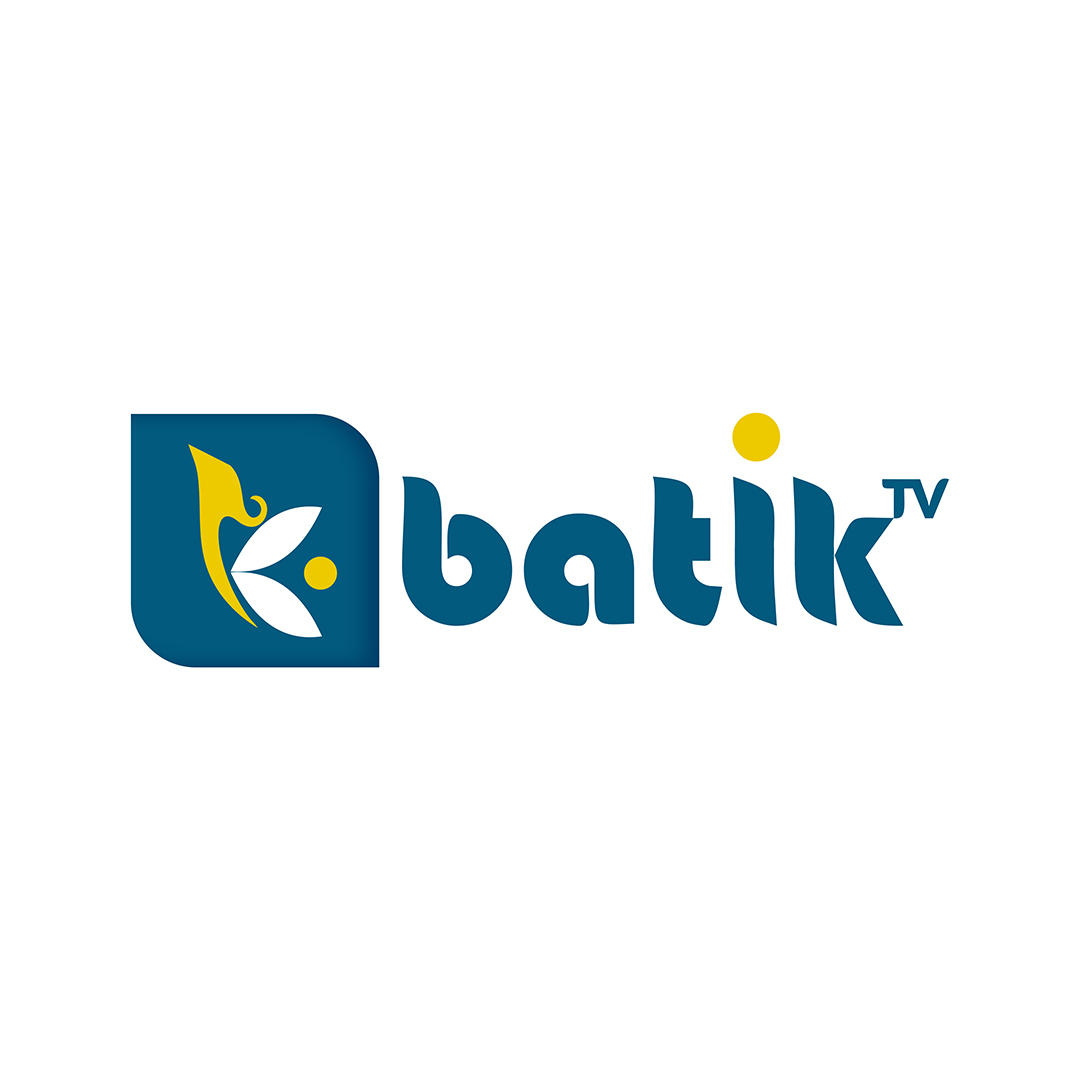
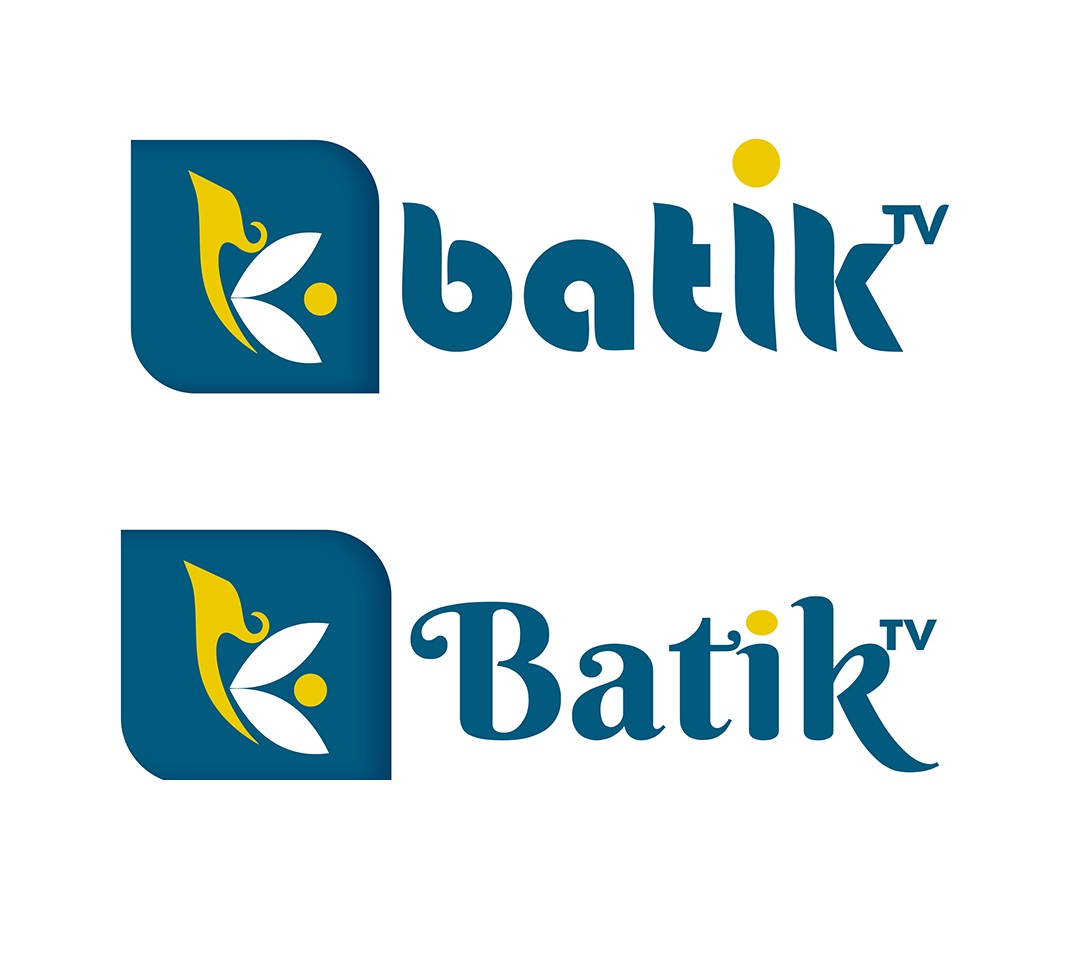
Add port

Changed region(s): [[0.0917, 0.124, 0.8861, 0.8058], [0.825, 0.186, 0.8861, 0.2479]]

diff --git a/index.html b/index.html
@@ -42,7 +42,7 @@
           <a href="https://www.instagram.com/cahyadwii__" target="_blank" class="profile__social-link">
             <i class="ph-thin ph-instagram-logo"></i>
           </a>
-          <a href="https://www.linkedin.com/in/lutfi-angga" target="_blank" class="profile__social-link">
+          <a href="https://www.linkedin.com/in/luthfiee-angga" target="_blank" class="profile__social-link">
             <i class="ph-thin ph-linkedin-logo"></i>
           </a>
           <a href="https://dribbble.com/cahyadwii__" target="_blank" class="profile__social-link">
@@ -209,7 +209,7 @@
               <div>
                 <span class="projects__subtitle">Logo Design</span>
                 <h3 class="projects__title">Logo Nyes Nyes Ice Cream</h3>
-                <a href="https://www.linkedin.com/posts/lutfi-angga_logo-desain-activity-7089784042593685504-zTb0?utm_source=share&utm_medium=member_desktop" target="_blank" class="projects__button button button__small">
+                <a href="https://dribbble.com/shots/22972570-Nyes-Nyes-Ice-Cream-Logo-Design" target="_blank" class="projects__button button button__small">
                   <i class="ri-link"></i>
                 </a>
               </div>
@@ -224,7 +224,7 @@
               <div>
                 <span class="projects__subtitle">Brochure Design</span>
                 <h3 class="projects__title">Brosur Nyes Nyes Ice Cream</h3>
-                <a href="https://www.linkedin.com/posts/lutfi-angga_poster-desain-activity-7089787825432252416-IT9X?utm_source=share&utm_medium=member_desktop" target="_blank" class="projects__button button button__small">
+                <a href="https://dribbble.com/shots/22972583-Nyes-Nyes-Ice-Cream-Poster-Design" target="_blank" class="projects__button button button__small">
                   <i class="ri-link"></i>
                 </a>
               </div>
@@ -239,7 +239,7 @@
               <div>
                 <span class="projects__subtitle">Graphic Design</span>
                 <h3 class="projects__title">Omah Creativa Mockup Implementation</h3>
-                <a href="https://www.linkedin.com/posts/lutfi-angga_mini-project-activity-7089826049273856000-mMBi?utm_source=share&utm_medium=member_desktop" target="_blank" class="projects__button button button__small">
+                <a href="https://dribbble.com/shots/22972558-Omah-Creativa-ID-Card-Design" target="_blank" class="projects__button button button__small">
                   <i class="ri-link"></i>
                 </a>
               </div>
@@ -248,28 +248,13 @@
 
           <article class="projects__card">
             <!-- Insert your image in a rectangular format (Ex: 600 x 400, 1000 x 800, 1200 x 1000, etc) -->
-            <img src="assets/img/portfolio/1.jpg" alt="" class="projects__img">
+            <img src="assets/img/portfolio/Batiktv.png" alt="" class="projects__img">
 
             <div class="projects__modal">
               <div>
                 <span class="projects__subtitle">Logo Design</span>
-                <h3 class="projects__title">Redesain logo Batik TV Part#1</h3>
-                <a href="https://www.linkedin.com/posts/lutfi-angga_redesain-logo-batik-tv1-activity-7090354547302309888-Q9qT?utm_source=share&utm_medium=member_desktop" target="_blank" class="projects__button button button__small">
-                  <i class="ri-link"></i>
-                </a>
-              </div>
-            </div>
-          </article>
-
-          <article class="projects__card">
-            <!-- Insert your image in a rectangular format (Ex: 600 x 400, 1000 x 800, 1200 x 1000, etc) -->
-            <img src="assets/img/portfolio/7.jpg" alt="" class="projects__img">
-
-            <div class="projects__modal">
-              <div>
-                <span class="projects__subtitle">Logo Design</span>
-                <h3 class="projects__title">Redesain logo Batik TV Part#2</h3>
-                <a href="https://www.linkedin.com/posts/lutfi-angga_redesain-logo-batik-tv2-activity-7090355344660471808-Ow95?utm_source=share&utm_medium=member_desktop" target="_blank" class="projects__button button button__small">
+                <h3 class="projects__title">Redesain logo Batik TV</h3>
+                <a href="https://dribbble.com/shots/22972651-Redesign-Logo-Batik-TV" target="_blank" class="projects__button button button__small">
                   <i class="ri-link"></i>
                 </a>
               </div>
